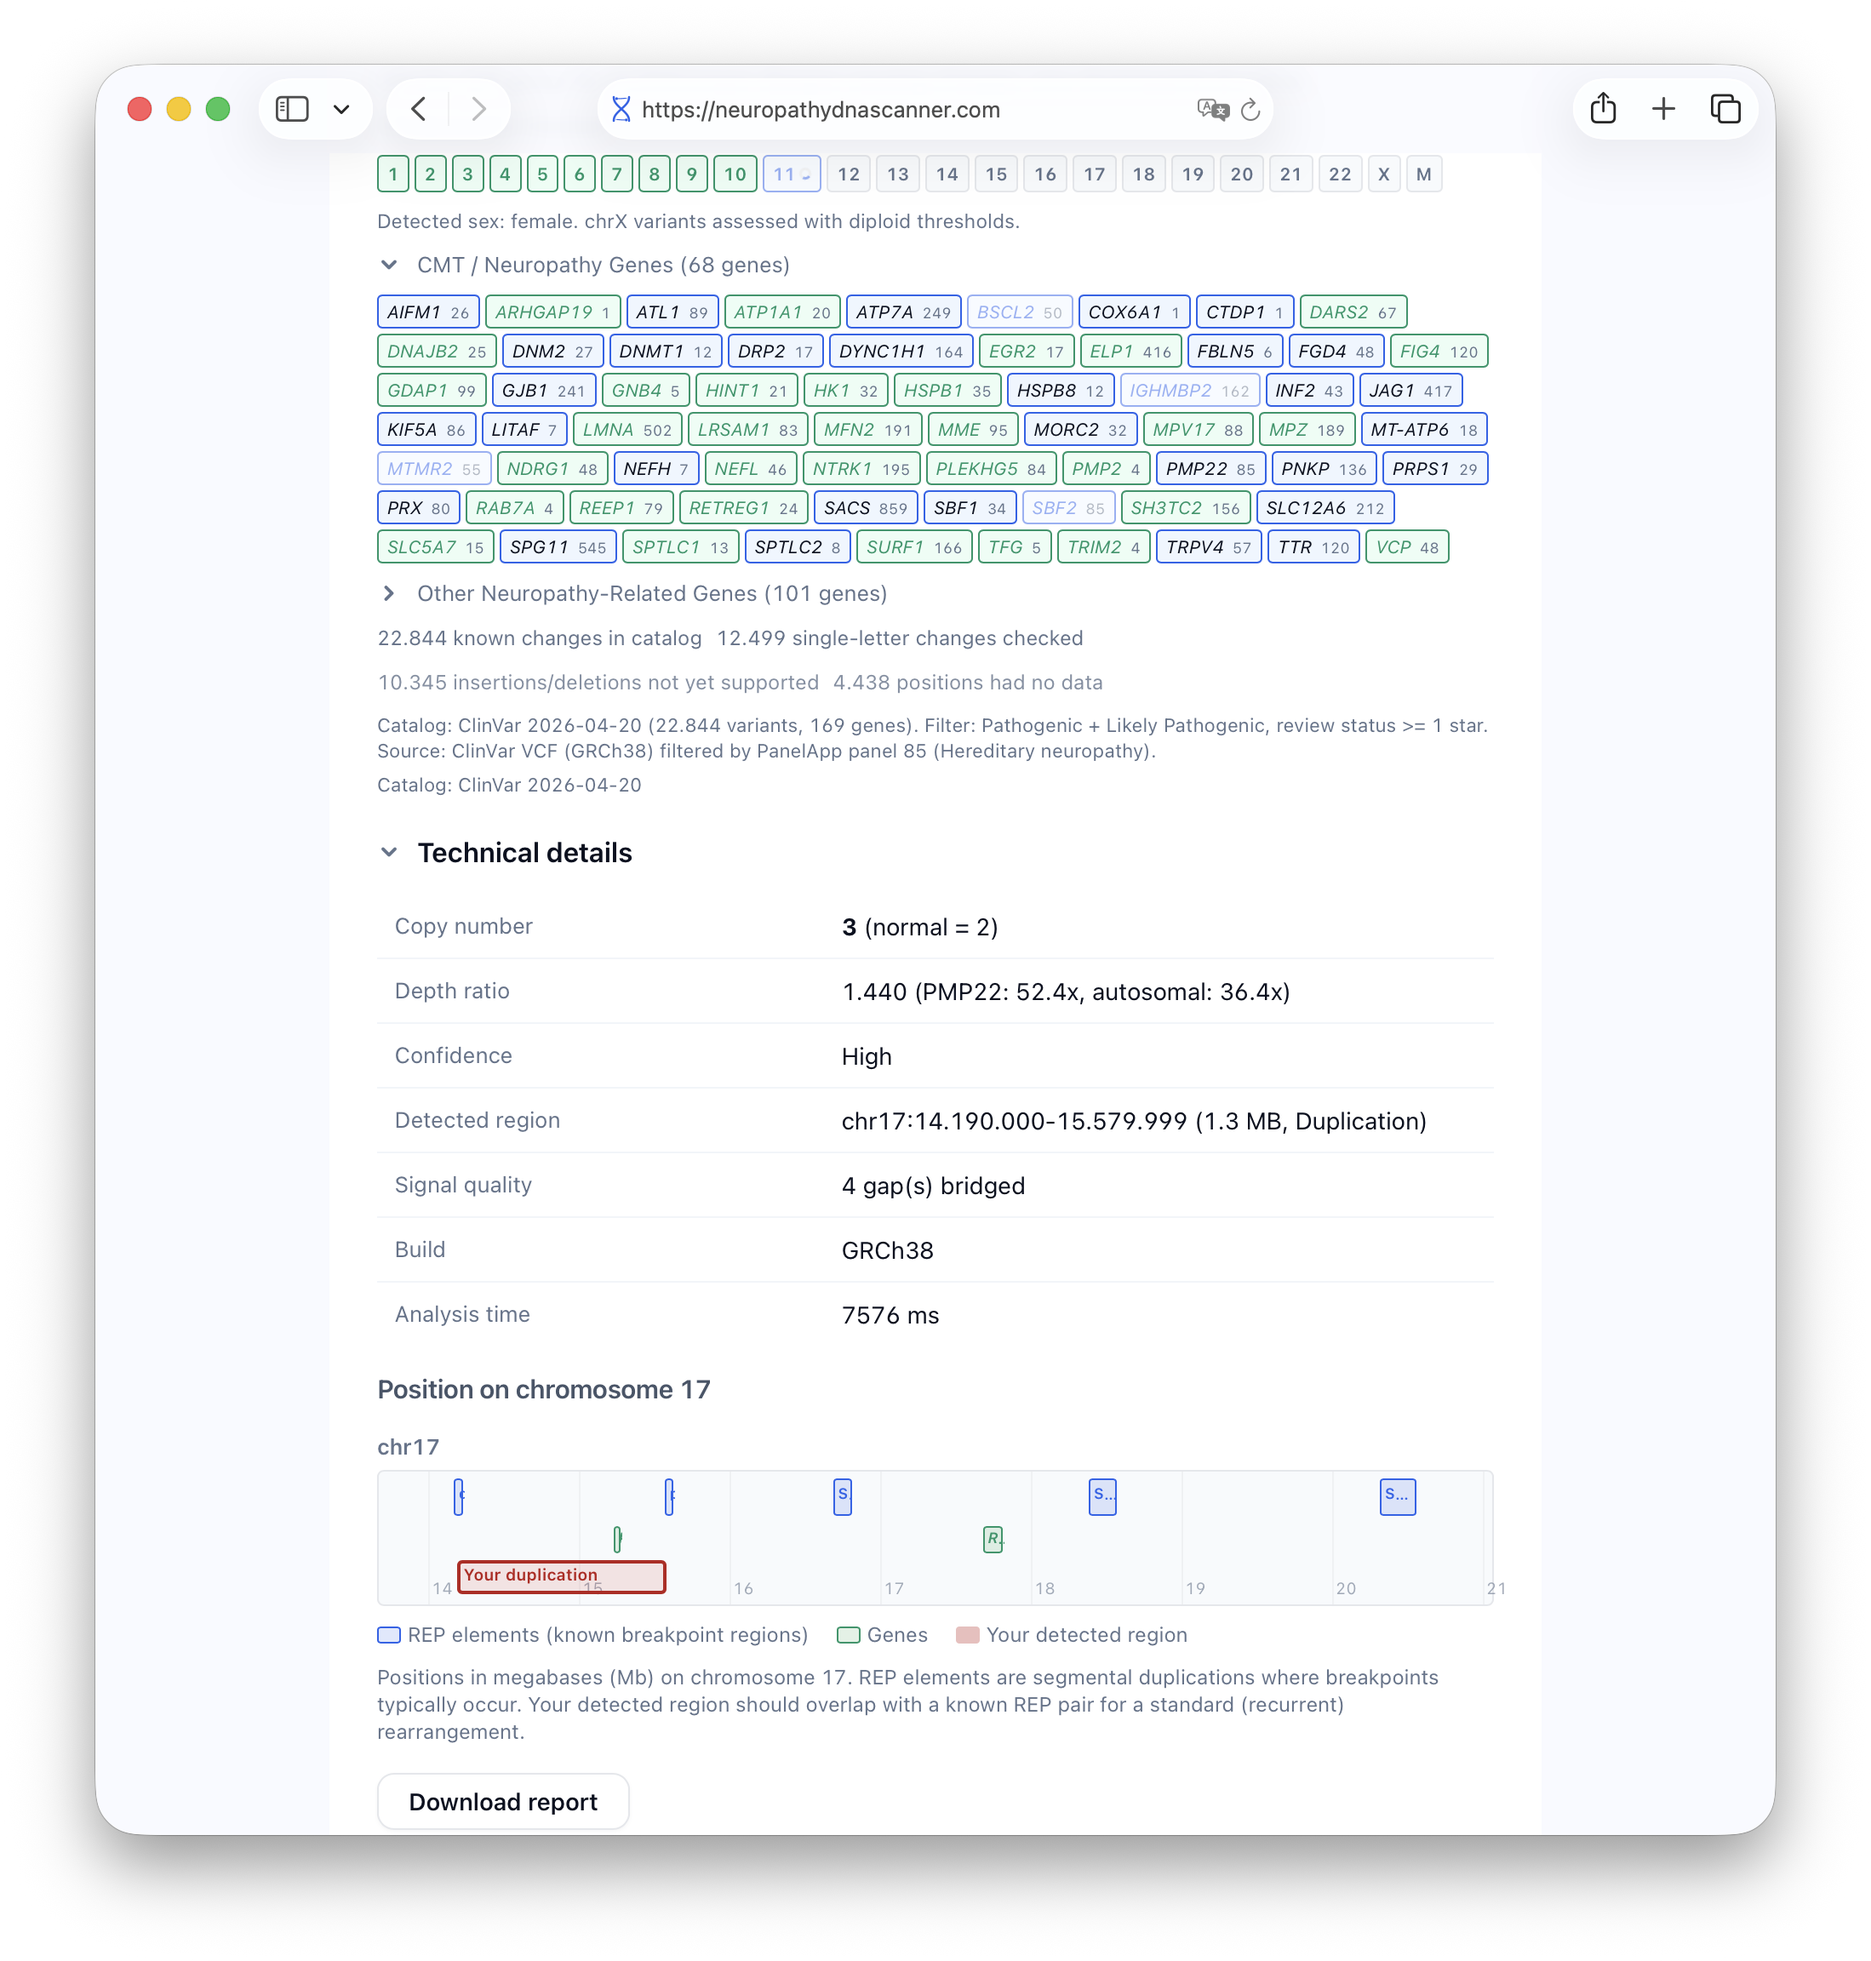
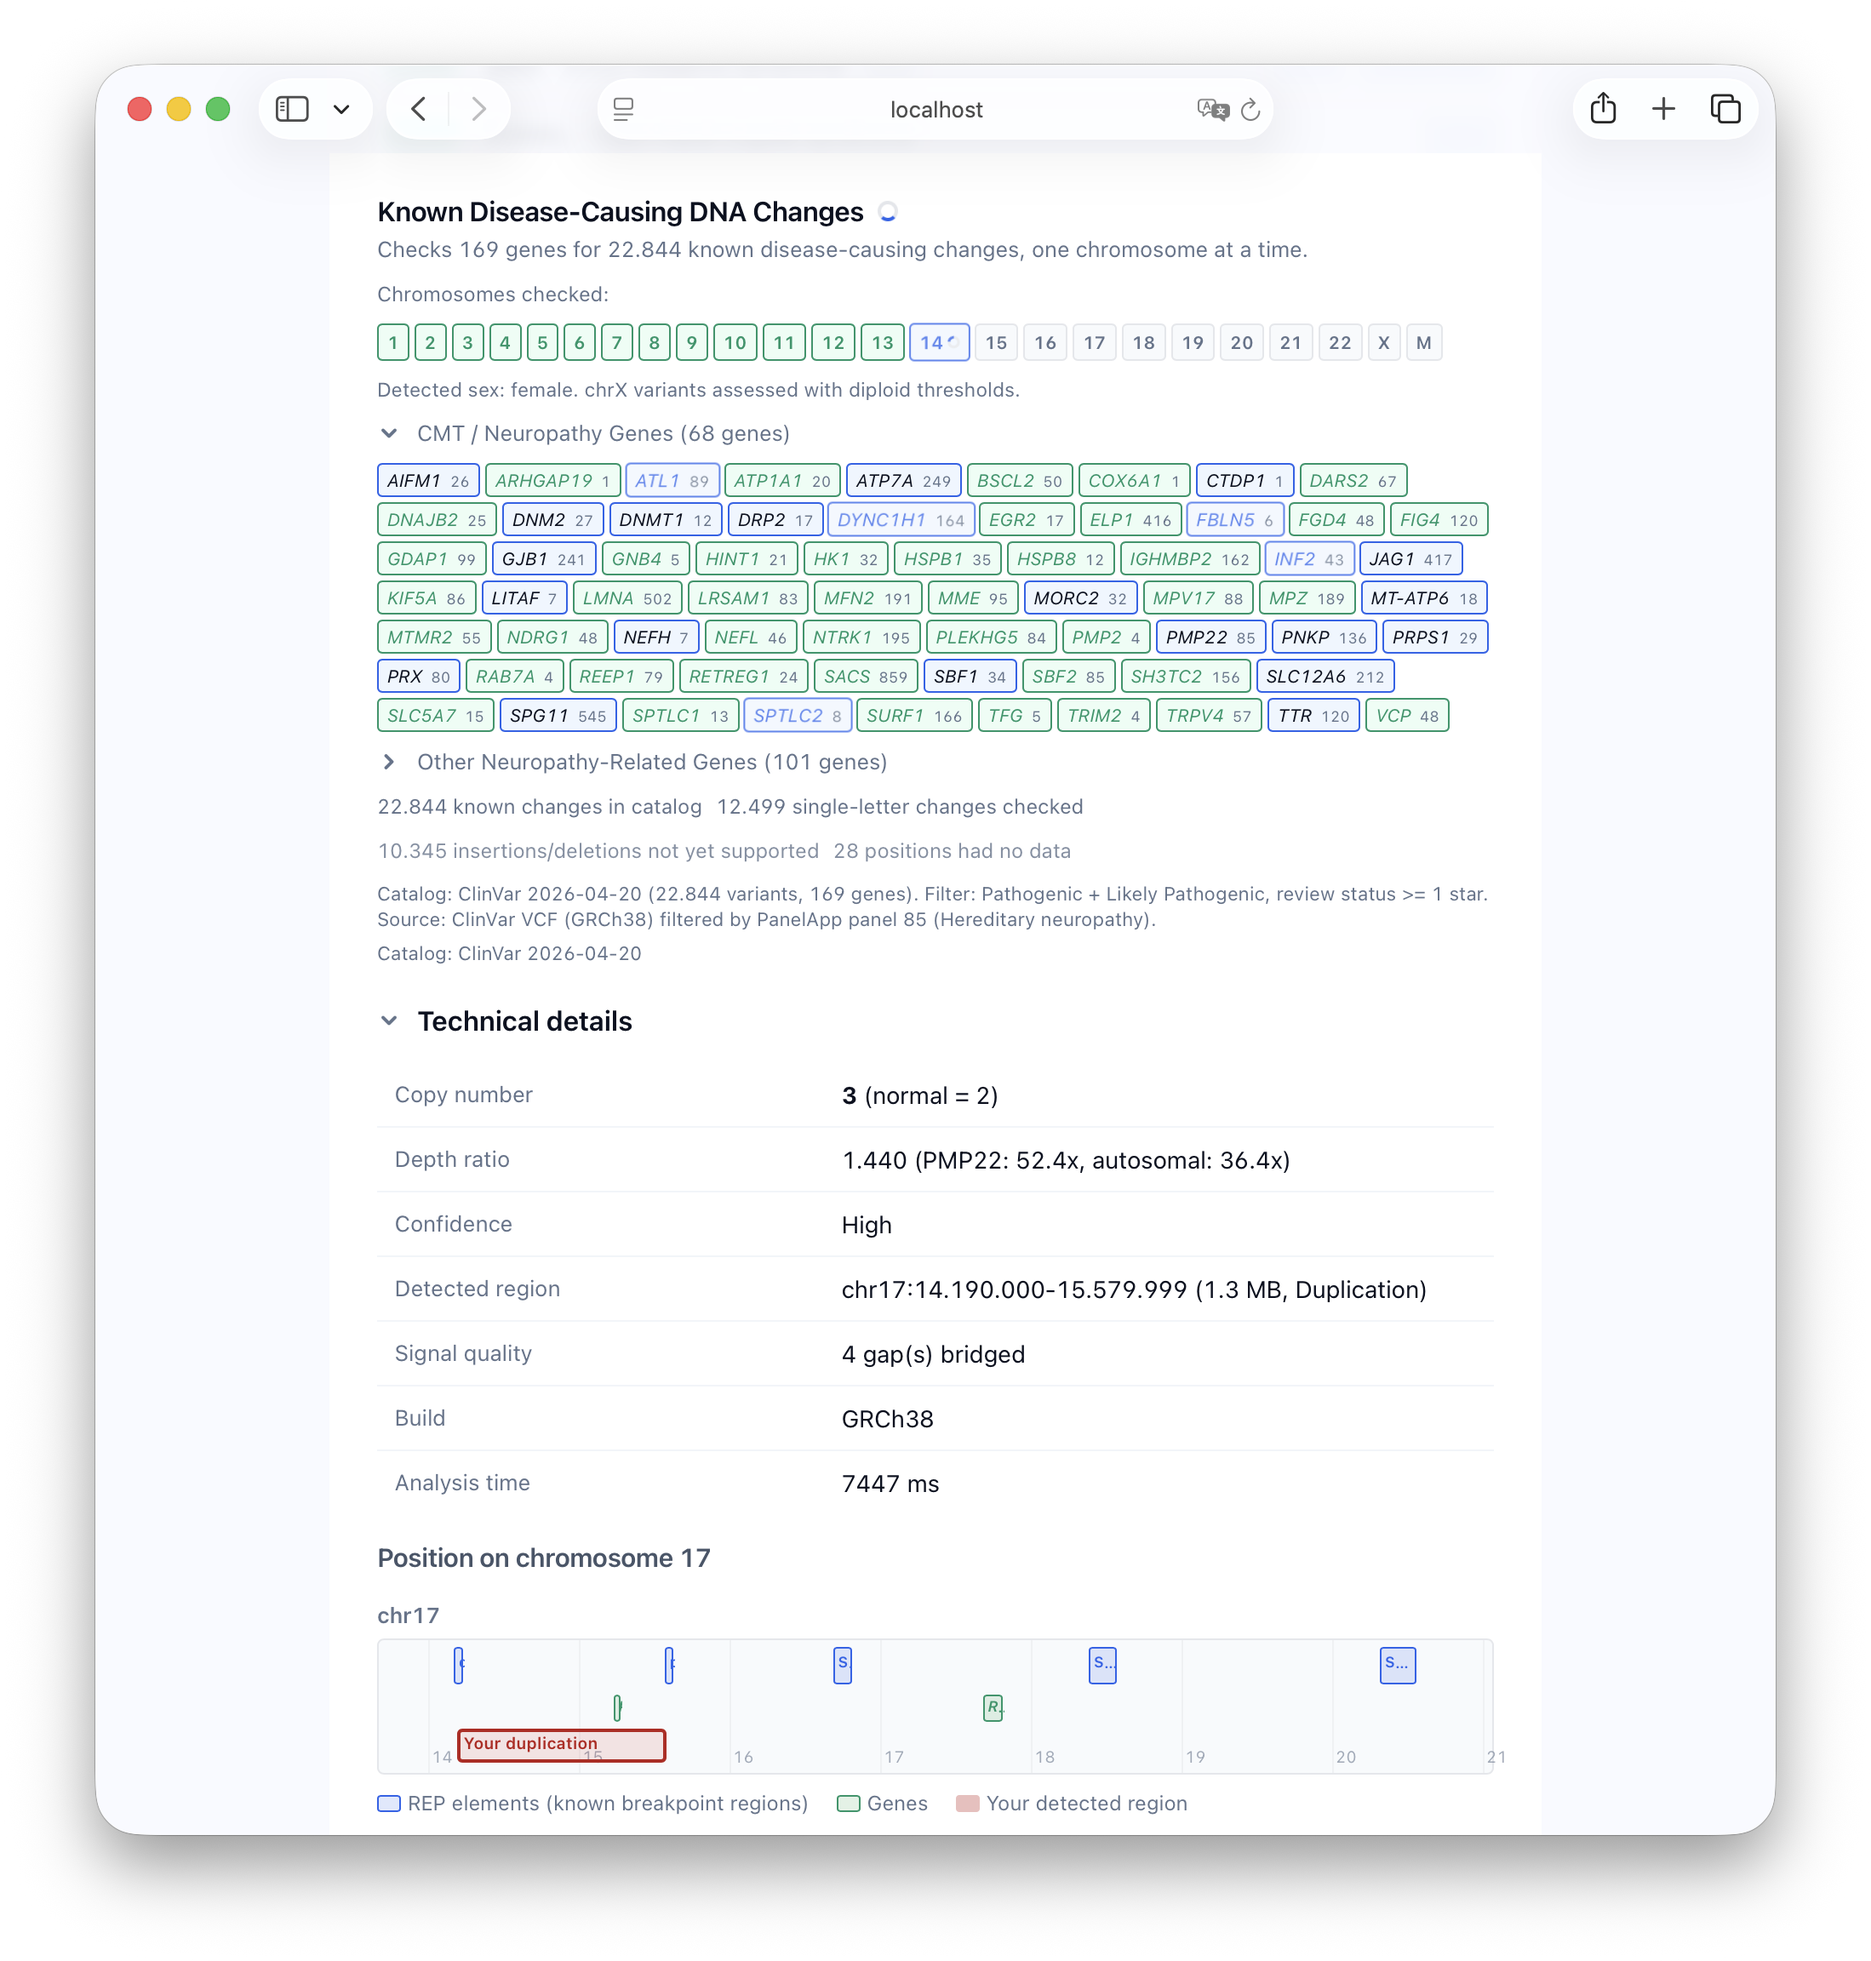
Fix stats: exclude indels from no-coverage count

diff --git a/core/src/pileup.rs b/core/src/pileup.rs
@@ -252,10 +252,15 @@ pub fn classify_pileup(ref_count: u32, alt_count: u32, config: &PileupConfig) ->
 
 /// Build a PileupResult from a list of checked variants.
 pub fn build_pileup_result(checked: Vec<CheckedVariant>, catalog: &VariantCatalog) -> PileupResult {
+    let is_snv = |c: &CheckedVariant| c.ref_allele.len() == 1 && c.alt_allele.len() == 1;
     let total_checked = checked.len();
+    // Only count real no-coverage hits on SNVs. Indels are auto-marked
+    // NoCoverage because the pileup engine does not support them yet;
+    // surfacing them under "positions had no data" would double-count
+    // them with the "insertions/deletions not yet supported" stat.
     let no_coverage_count = checked
         .iter()
-        .filter(|c| matches!(c.call, VariantCall::NoCoverage))
+        .filter(|c| is_snv(c) && matches!(c.call, VariantCall::NoCoverage))
         .count();
     let low_coverage_count = checked
         .iter()
